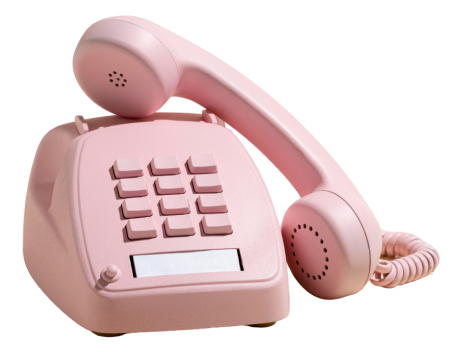
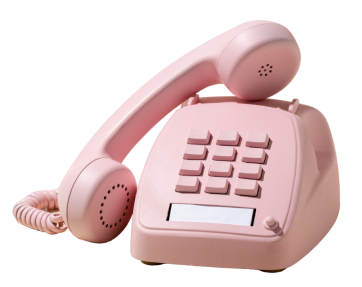
iniciando proyecto

diff --git a/index.html b/index.html
@@ -10,15 +10,16 @@
     <link rel="stylesheet" href="./styles/protons/texts.css">
     <link rel="stylesheet" href="./styles/protons/icons.css">
     <link rel="stylesheet" href="./styles/protons/img.css">
+    <link rel="stylesheet" href="./styles/protons/label.css">
+    <link rel="stylesheet" href="./styles/protons/input.css">
+    <link rel="stylesheet" href="./styles/protons/textarea.css">
     <!-- atoms -->
     <link rel="stylesheet" href="./styles/atoms/btn.css">
     <link rel="stylesheet" href="./styles/atoms/service-description.css">
     <link rel="stylesheet" href="./styles/atoms/number.css">
     <link rel="stylesheet" href="./styles/atoms/titles.css">
     <link rel="stylesheet" href="./styles/atoms/div-service-img.css">
-    <link rel="stylesheet" href="./styles/atoms/label.css">
-    <link rel="stylesheet" href="./styles/atoms/input.css">
-    <link rel="stylesheet" href="./styles/atoms/textarea.css">
+    <link rel="stylesheet" href="./styles/atoms/form-item.css">
     <!-- molecules -->
     <link rel="stylesheet" href="./styles/molecules/step-item.css">
     <link rel="stylesheet" href="./styles/molecules/benefits-items.css">
@@ -28,6 +29,7 @@
     <link rel="stylesheet" href="./styles/organisms/steps-group.css">
     <link rel="stylesheet" href="./styles/organisms/benefits-group.css">
     <link rel="stylesheet" href="./styles/organisms/services-group.css">
+    <link rel="stylesheet" href="./styles/organisms/contact-group.css">
     <!-- templates -->
     <link rel="stylesheet" href="./styles/templates/section.css">
     <link rel="stylesheet" href="./styles/templates/cta.css">
@@ -183,33 +185,40 @@
 
         </section>
 
-        <section class="section background--tertiary">
+        <section class="section section-contact background--tertiary">
 
             <h2 class="title color--dark txt txt--center txt--l txt--bold">Contáctame</h2>
 
-            <form>
+            <div class="contact-group">
 
-                <div class="form-group">
-                    <label class="label txt txt--s txt--bold color--dark txt--uppercase">Nombre</label>
-                    <input class="input">
-                </div>
+                <form class="form-group">
 
-                <div class="form-group">
-                    <label class="label txt txt--s txt--bold color--dark txt--uppercase">Nombre</label>
-                    <input class="input">
-                </div>
+                    <div class="form-item">
+                        <label class="label txt txt--s txt--bold color--dark txt--uppercase">Nombre</label>
+                        <input class="input">
+                    </div>
 
-                <div class="form-group">
-                    <label class="label txt txt--s txt--bold color--dark txt--uppercase">Nombre</label>
-                    <input class="input">
-                </div>
+                    <div class="form-item">
+                        <label class="label txt txt--s txt--bold color--dark txt--uppercase">Nombre</label>
+                        <input class="input">
+                    </div>
 
-                <div class="form-group">
-                    <label class="label txt txt--s txt--bold color--dark txt--uppercase">Nombre</label>
-                    <textarea class="textarea"></textarea>
-                </div>
+                    <div class="form-item">
+                        <label class="label txt txt--s txt--bold color--dark txt--uppercase">Nombre</label>
+                        <input class="input">
+                    </div>
 
-            </form>
+                    <div class="form-item--textarea">
+                        <label class="label txt txt--s txt--bold color--dark txt--uppercase">Nombre</label>
+                        <textarea class="textarea"></textarea>
+                    </div>
+
+                </form>
+
+                <img src="./assets/img/phone-contact.png" class="phone">
+                
+            </div>
+
 
         </section>
 

diff --git a/styles/protons/img.css b/styles/protons/img.css
@@ -2,10 +2,33 @@
     height: 100%;
 }
 
+.phone{
+    width: 14rem;
+    position: absolute;
+    z-index: 1;
+    right: 2rem;
+}
+
+
+@media only screen and (min-width: 470px){
+    .phone{
+        width: 17rem;
+    }  
+}
+
+@media only screen and (min-width: 770px){
+    .phone{
+        width: 19rem;
+    }    
+}
 
 @media only screen and (min-width: 1024px){
     .service-img{
         width: 100%;
         height: auto;
-    }    
+    }
+    
+    .phone{
+        width: 22rem;
+    }
 }

diff --git a/styles/organisms/contact-group.css b/styles/organisms/contact-group.css
@@ -1,14 +1,14 @@
-.form-group{
+.contact-group{
     display: flex;
     flex-direction: column;
+    justify-content: center;
 }
 
 
 @media only screen and (min-width: 1024px){
-    .form-group{
-        width: 70%;
+    .contact-group{
         flex-direction: row;
-        flex-wrap: wrap;
         justify-content: space-between;
+        align-items: center;
     }
 }

diff --git a/styles/atoms/form-item.css b/styles/atoms/form-item.css
@@ -1,0 +1,19 @@
+.form-item, .form-item--textarea{
+    padding: 1.5rem;
+    box-sizing: border-box;
+    z-index: 2;
+}
+
+.form-item{
+    width: 60%;
+}
+
+.form-item--textarea{
+    width: 100%;
+}
+
+@media only screen and (min-width: 1024px){
+    .form-item{
+        width: 33%;
+    }
+}

diff --git a/styles/protons/input.css b/styles/protons/input.css
@@ -1,5 +1,5 @@
 .input{
-    width: 70%;
+    width: 100%;
     border: none;
     border-bottom: 0.12rem solid var(--color-dark);
     background-color: transparent;

diff --git a/styles/templates/section.css b/styles/templates/section.css
@@ -7,6 +7,7 @@
 }
 
 
+
 @media only screen and (min-width: 770px){
     .section{
         padding: 5rem 4rem;
